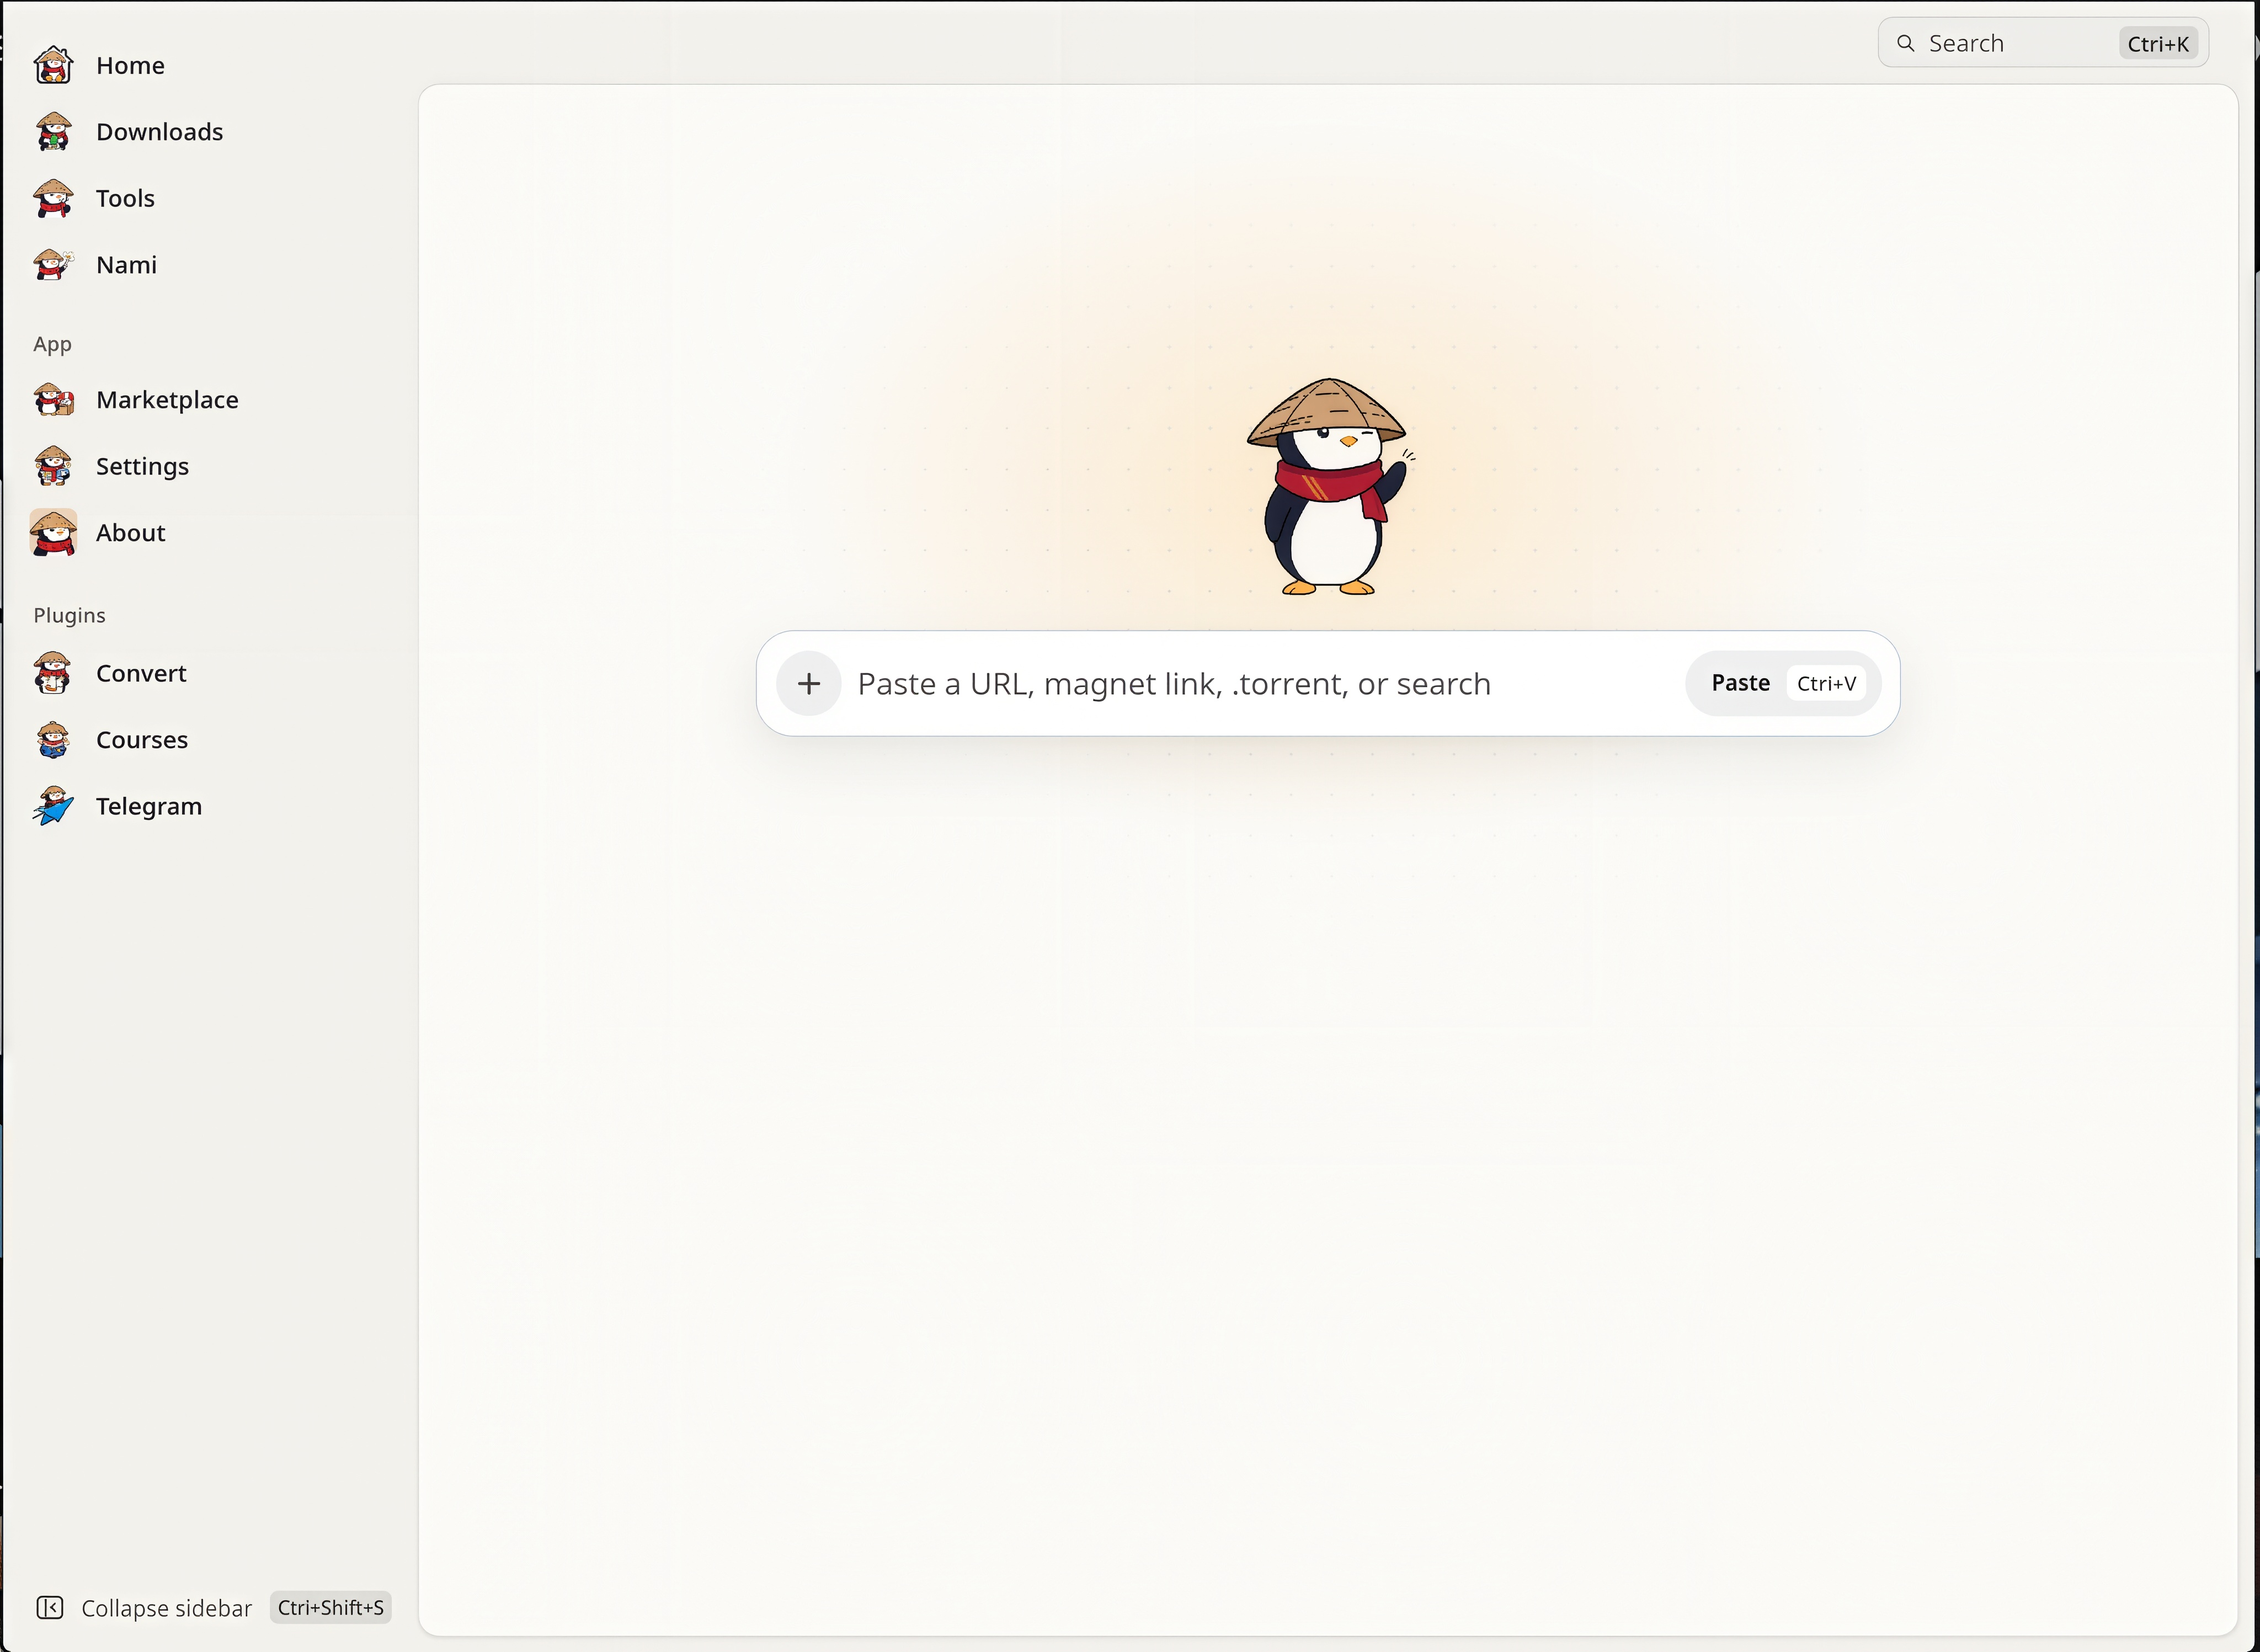
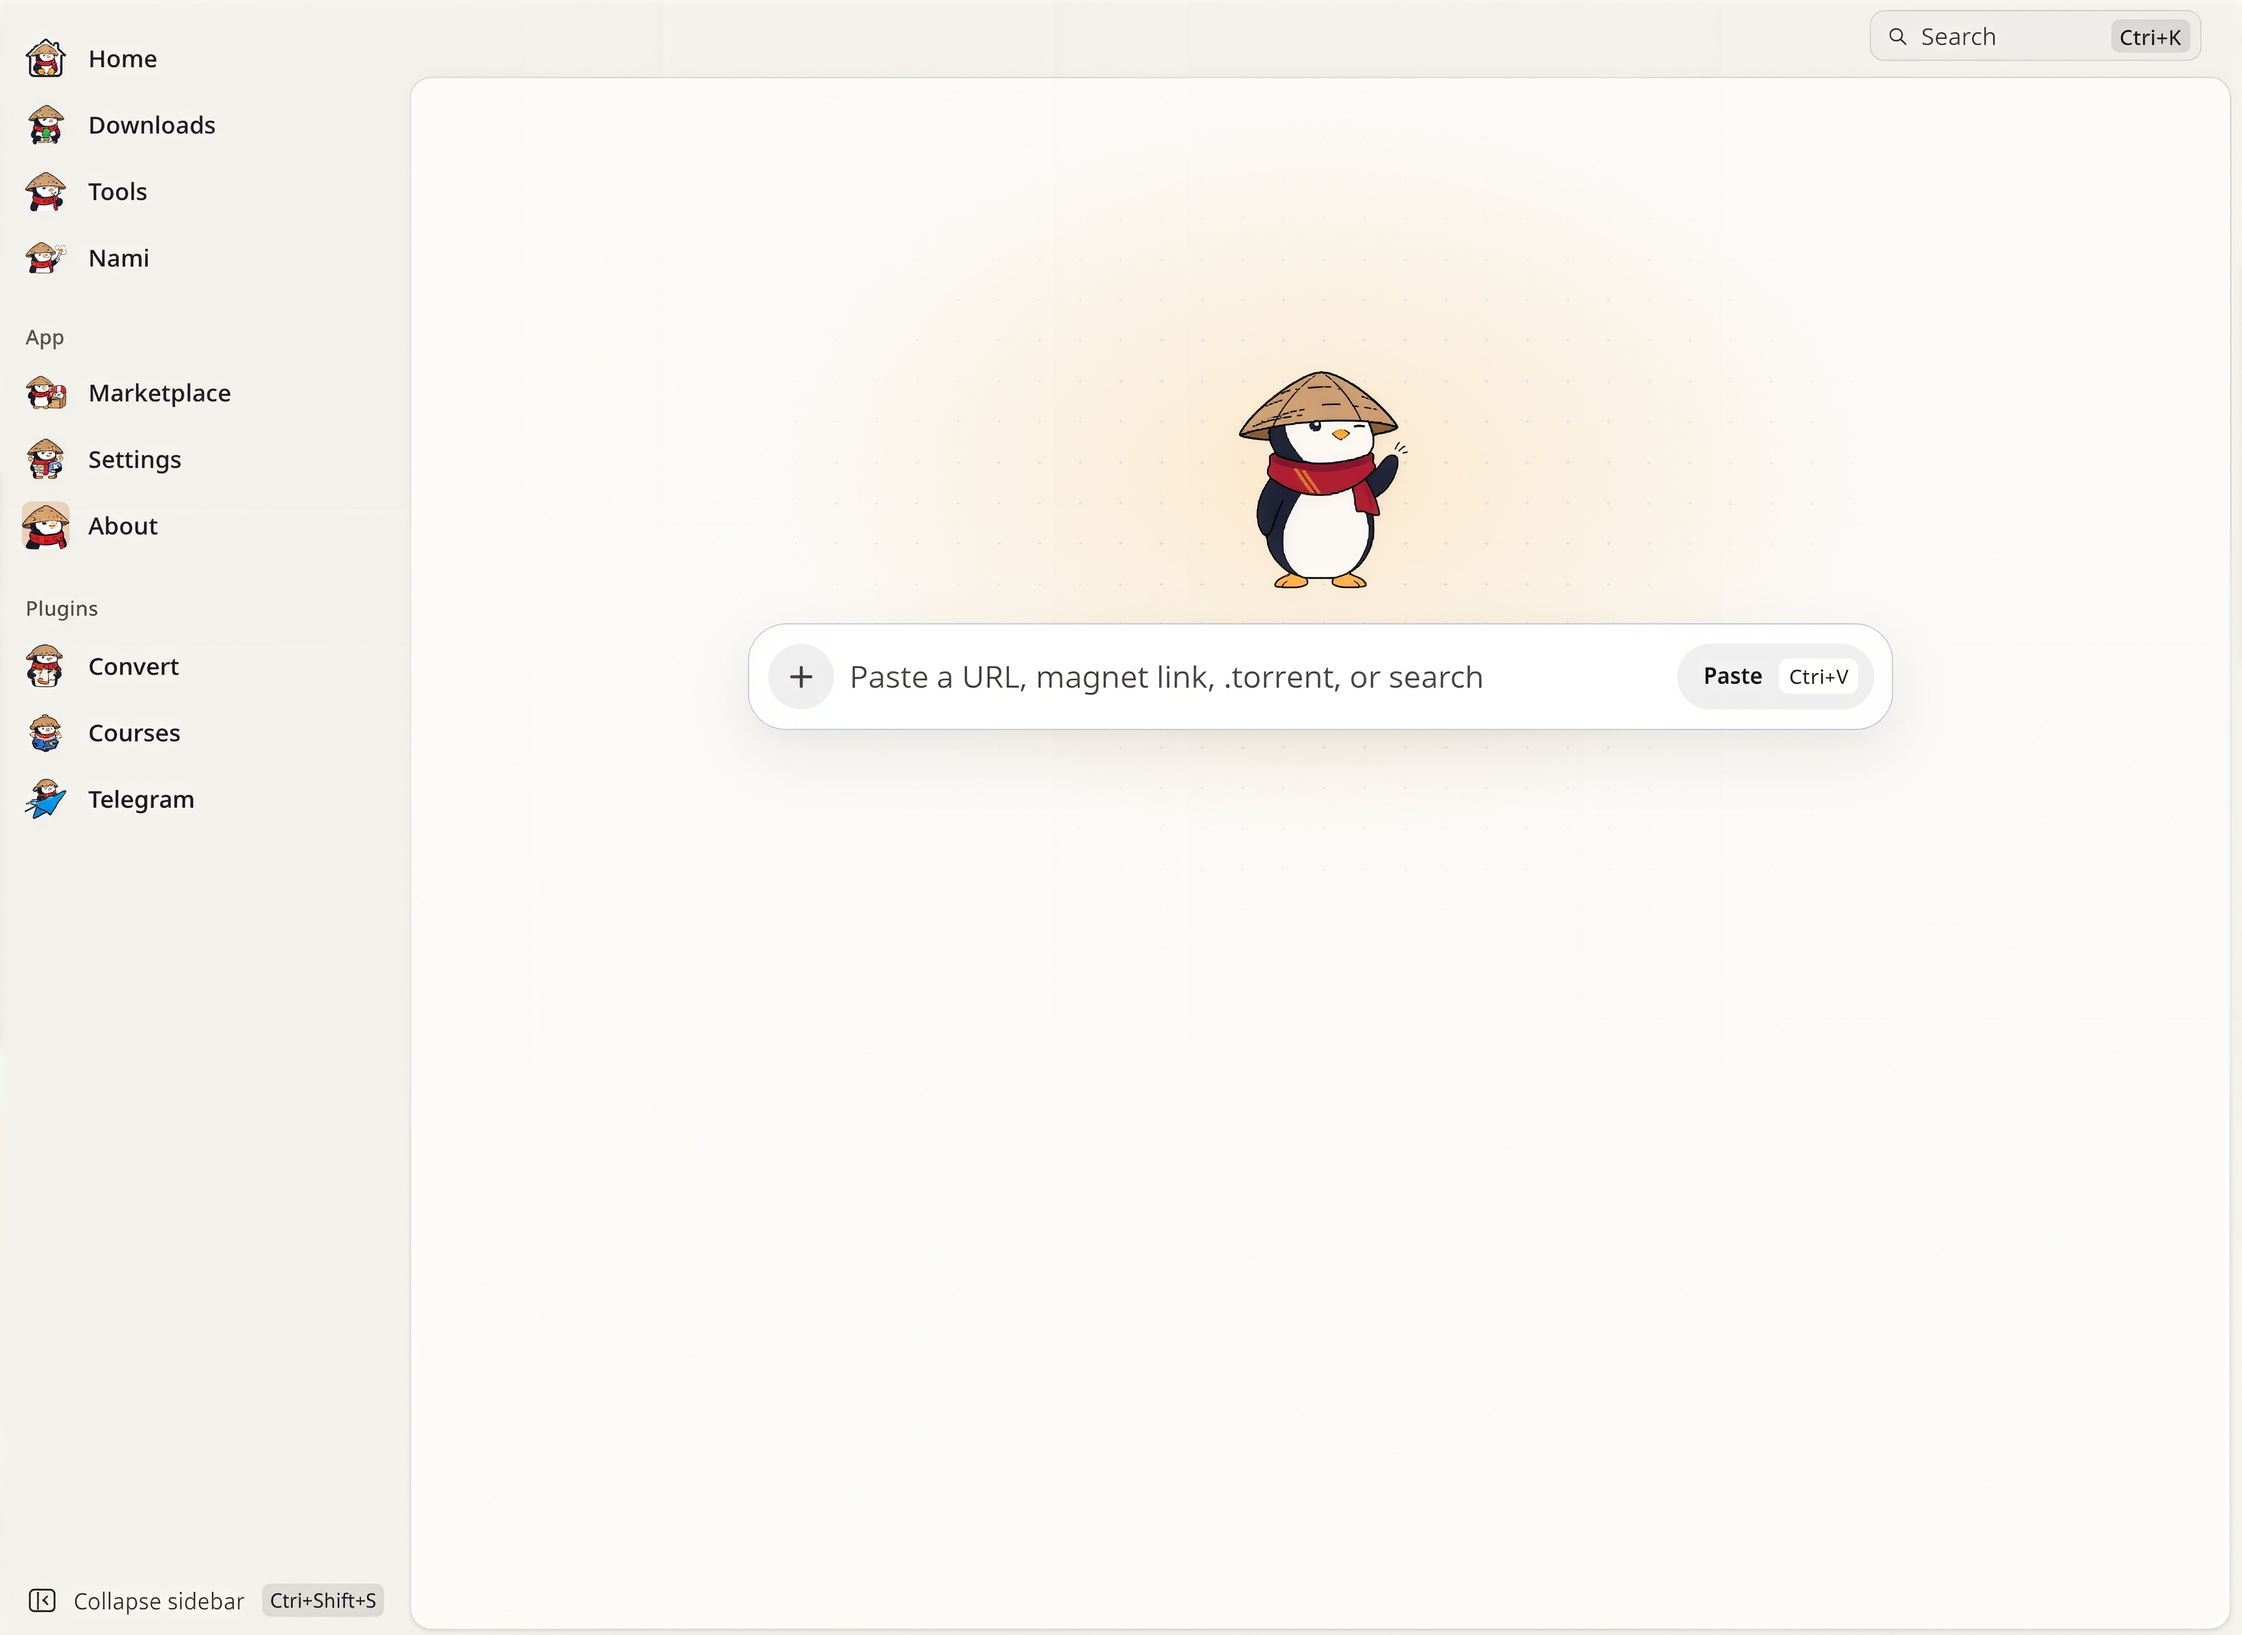
docs(readme): add credits, update badge alignment, and crop home screenshot

diff --git a/README.md b/README.md
@@ -40,23 +40,18 @@ twitch-downloader, subtitle-downloader, epub-reader, spaced-repetition
   <a href="https://github.com/OpenSelena/libreget/releases/latest"><img src="https://img.shields.io/github/v/release/OpenSelena/libreget?style=for-the-badge&label=release&color=F28500" alt="Latest release" /></a>
   <a href="https://github.com/OpenSelena/libreget/releases"><img src="https://img.shields.io/github/downloads/OpenSelena/libreget/total?style=for-the-badge&label=downloads&color=1E6FE8" alt="Total downloads" /></a>
   <a href="https://github.com/OpenSelena/libreget/stargazers"><img src="https://img.shields.io/github/stars/OpenSelena/libreget?style=for-the-badge&color=FFD426" alt="GitHub stars" /></a>
+</p>
+
+<p align="center">
   <a href="LICENSE"><img src="https://img.shields.io/badge/license-GPL--3.0-2AA845?style=for-the-badge" alt="License GPL-3.0" /></a>
   <a href="https://t.me/OpenSelena"><img src="https://img.shields.io/badge/Telegram-channel-2CA5E0?style=for-the-badge&logo=telegram&logoColor=white" alt="Telegram channel" /></a>
-  <a href="https://hosted.weblate.org/engage/libreget/"><img src="https://hosted.weblate.org/widget/libreget/frontend/svg-badge.svg" alt="Translation status" /></a>
+  <a href="https://hosted.weblate.org/engage/libreget/"><img src="https://img.shields.io/weblate/progress/libreget?server=https%3A%2F%2Fhosted.weblate.org&style=for-the-badge&logo=weblate&logoColor=white" alt="Translation status" /></a>
 </p>
 
 <p align="center">
   <a href="#download-and-install"><img src="https://img.shields.io/badge/Download_for_Windows,_macOS_or_Linux-→-F28500?style=for-the-badge" alt="Download LibreGet" height="40" /></a>
   &nbsp;
   <a href="#the-tools-section-158-tools-in-25-categories"><img src="https://img.shields.io/badge/See_the_158_tools-→-3D5BF0?style=for-the-badge" alt="See the Tools section" height="40" /></a>
-</p>
-
-<p align="center">
-  <sub>Free. Open source under GPL-3.0. No account, no ads, no telemetry on what you download. Your files stay on your computer.</sub>
-</p>
-
-<p align="center">
-  <sub>Maintained by <a href="https://github.com/igect">igect</a> under GPL-3.0</sub>
 </p>
 
 <p align="center">
@@ -81,6 +76,7 @@ twitch-downloader, subtitle-downloader, epub-reader, spaced-repetition
 - [Frequently asked questions](#frequently-asked-questions)
 - [Command line](#command-line)
 - [Build from source](#build-from-source)
+- [Credits](#credits)
 - [Contributing and translations](#contributing-and-translations)
 
 ---
@@ -703,7 +699,18 @@ Releases sign their updater artifacts with a private key only the maintainer hol
 
 The `courses`, `telegram` and `convert` plugins live inside `src-tauri/plugins/` and compile into the main binary. The plugin registry is [libreget-plugins](https://github.com/OpenSelena/libreget-plugins).
 
-Stack: Tauri 2, Rust, SvelteKit with Svelte 5, SQLite, yt-dlp, FFmpeg, librqbit for torrents, whisper.cpp, aria2, gallery-dl.
+---
+
+## Credits
+
+LibreGet is built on:
+- [yt-dlp](https://github.com/yt-dlp/yt-dlp), [FFmpeg](https://ffmpeg.org/), [gallery-dl](https://github.com/mikf/gallery-dl), and [aria2](https://aria2.github.io/)
+- [librqbit](https://github.com/ikatson/rqbit) for torrents
+- [whisper.cpp](https://github.com/ggerganov/whisper.cpp) for speech transcription
+- [Tauri 2](https://tauri.app/), [Rust](https://www.rust-lang.org/), and [SvelteKit](https://kit.svelte.dev/) with Svelte 5
+- [cat-catch](https://github.com/xifangczy/cat-catch), [SponsorBlock](https://sponsor.ajay.app/), [Return YouTube Dislike](https://returnyoutubedislike.com/), [FxTwitter](https://github.com/FixTweet/FixTwitter), and [Spicetify](https://spicetify.app/)
+
+LibreGet is a fork of [OmniGet](https://github.com/tonhowtf/omniget) by [Antonio Leandro](https://github.com/tonhowtf). It is maintained independently and is not affiliated with OmniGet or Antonio Leandro.
 
 ---
 
@@ -712,8 +719,6 @@ Stack: Tauri 2, Rust, SvelteKit with Svelte 5, SQLite, yt-dlp, FFmpeg, librqbit 
 Bug reports and pull requests go to [Issues](https://github.com/OpenSelena/libreget/issues) and [Pull requests](https://github.com/OpenSelena/libreget/pulls). Questions and quick help live on [Telegram](https://t.me/OpenSelena). Security inquiries and vulnerability reports: [SECURITY.md](SECURITY.md) or [igect@vk.com](mailto:igect@vk.com).
 
 Translations are managed on [Weblate](https://hosted.weblate.org/engage/libreget/). Pick your language and translate in the browser. New strings appear there a few hours after they land in `main`.
-
-LibreGet is built on [yt-dlp](https://github.com/yt-dlp/yt-dlp), [FFmpeg](https://ffmpeg.org/), [gallery-dl](https://github.com/mikf/gallery-dl), [whisper.cpp](https://github.com/ggerganov/whisper.cpp), [aria2](https://aria2.github.io/), [SponsorBlock](https://sponsor.ajay.app/), [Return YouTube Dislike](https://returnyoutubedislike.com/), [FxTwitter](https://github.com/FixTweet/FxTwitter), [Spicetify](https://spicetify.app/), [cat-catch](https://github.com/xifangczy/cat-catch) (parts of the extension's media sniffer) and [Tauri](https://tauri.app/). Thank you to everyone who maintains them.
 
 The penguin mascot is LibreGet's project mascot. Community fan art is welcome. Project brand assets may not be used commercially or bundled into misleading third-party forks without permission.
 
